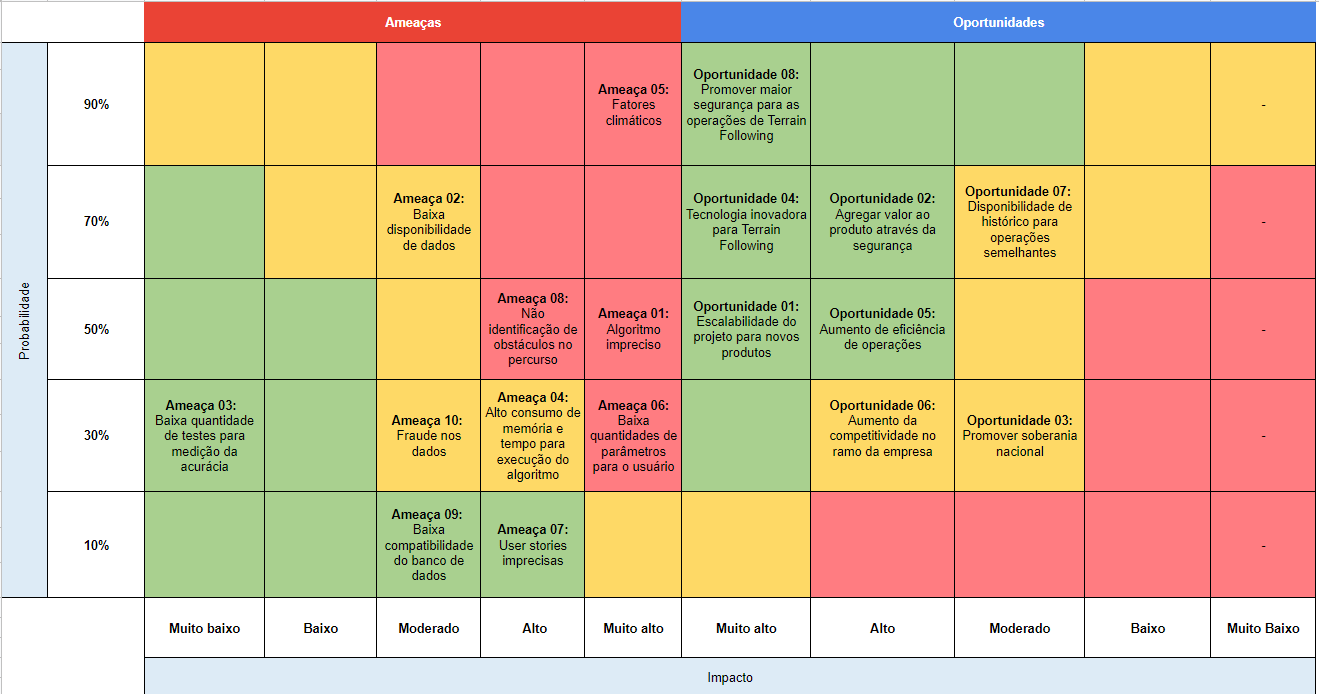
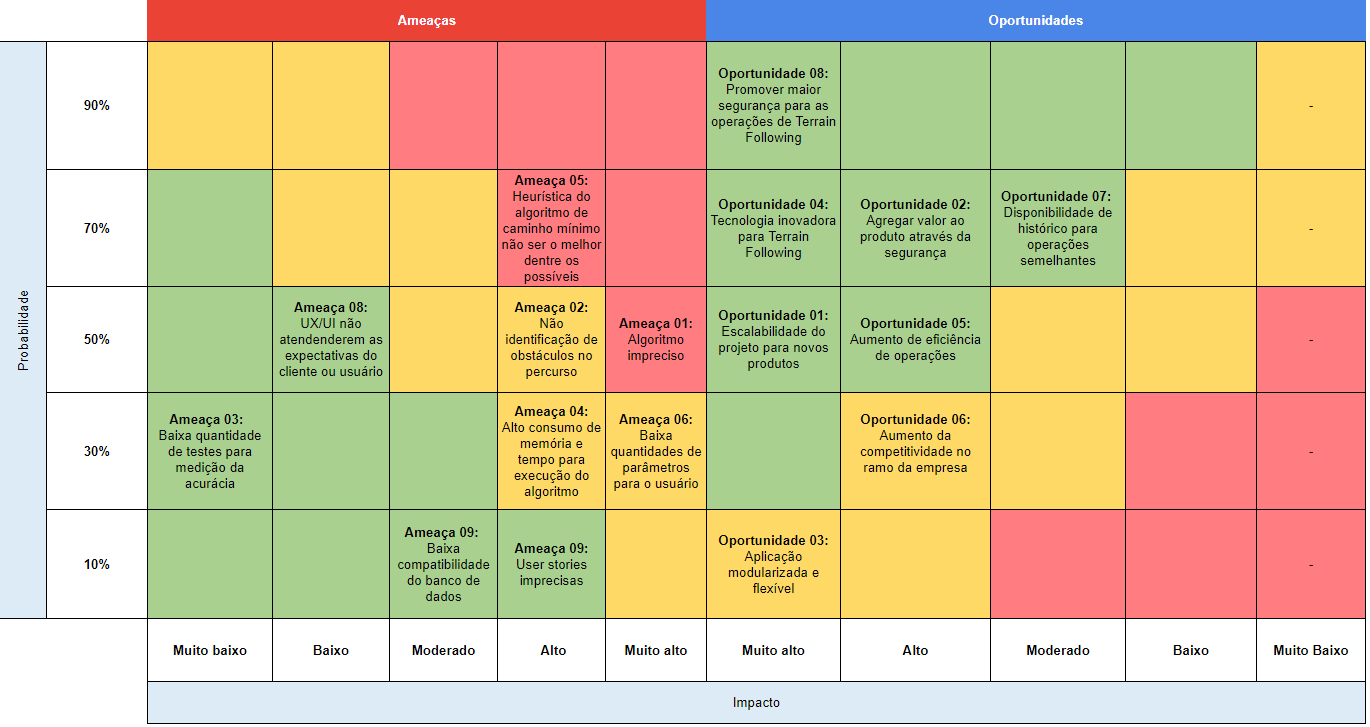
Atualização da matriz de risco pelo feedback

diff --git a/docs/index.md b/docs/index.md
@@ -394,7 +394,7 @@ Fontes:
 
 ## Matriz de Risco
 
-A matriz de risco foi elaborada considerando fatores categorizados em externos, internos e software. A categoria externa engloba condições climáticas e oportunidades de mercados, além de dependência para o desenvolvimento da solução como a quantidade de dados. Já a categoria interna contém problemas e oportunidades como problemas nos processos de criação que envolvem o nível de experiência da equipe. Por último a categoria de software, na qual inclui complexidade do algoritmo e outros fatores.
+A matriz de risco foi elaborada considerando fatores categorizados em internos e software. A categoria interna contém problemas e oportunidades como problemas nos processos de criação que envolvem o nível de experiência da equipe. Já a categoria de software, na qual inclui complexidade do algoritmo e outros fatores.
 
 ![Matriz_de_risco](img/risk-matrix.png)
 
